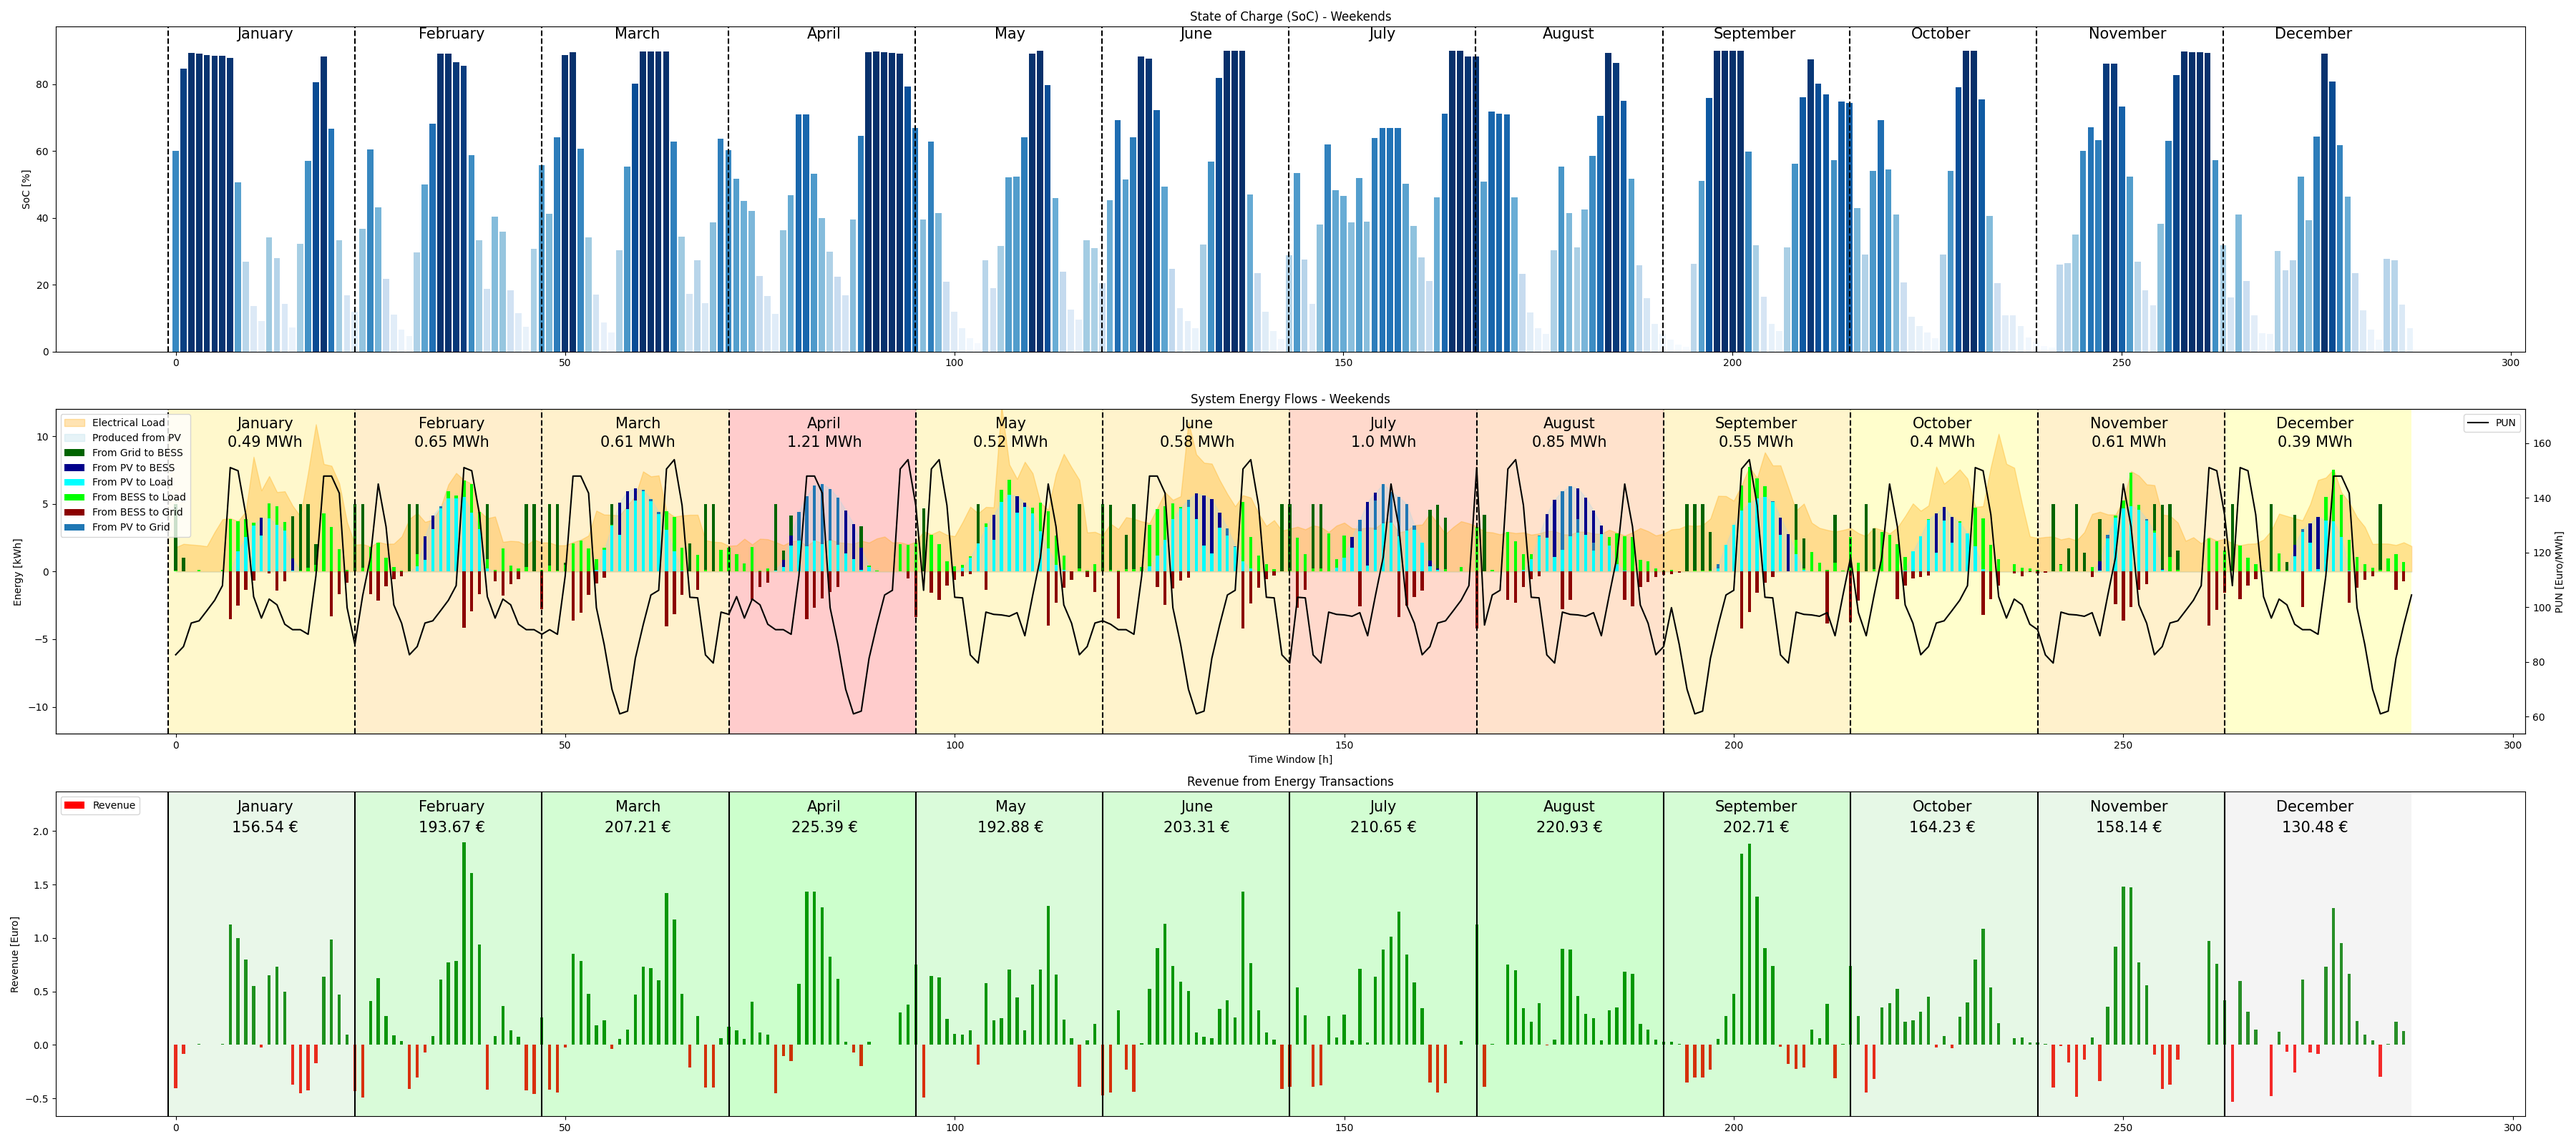
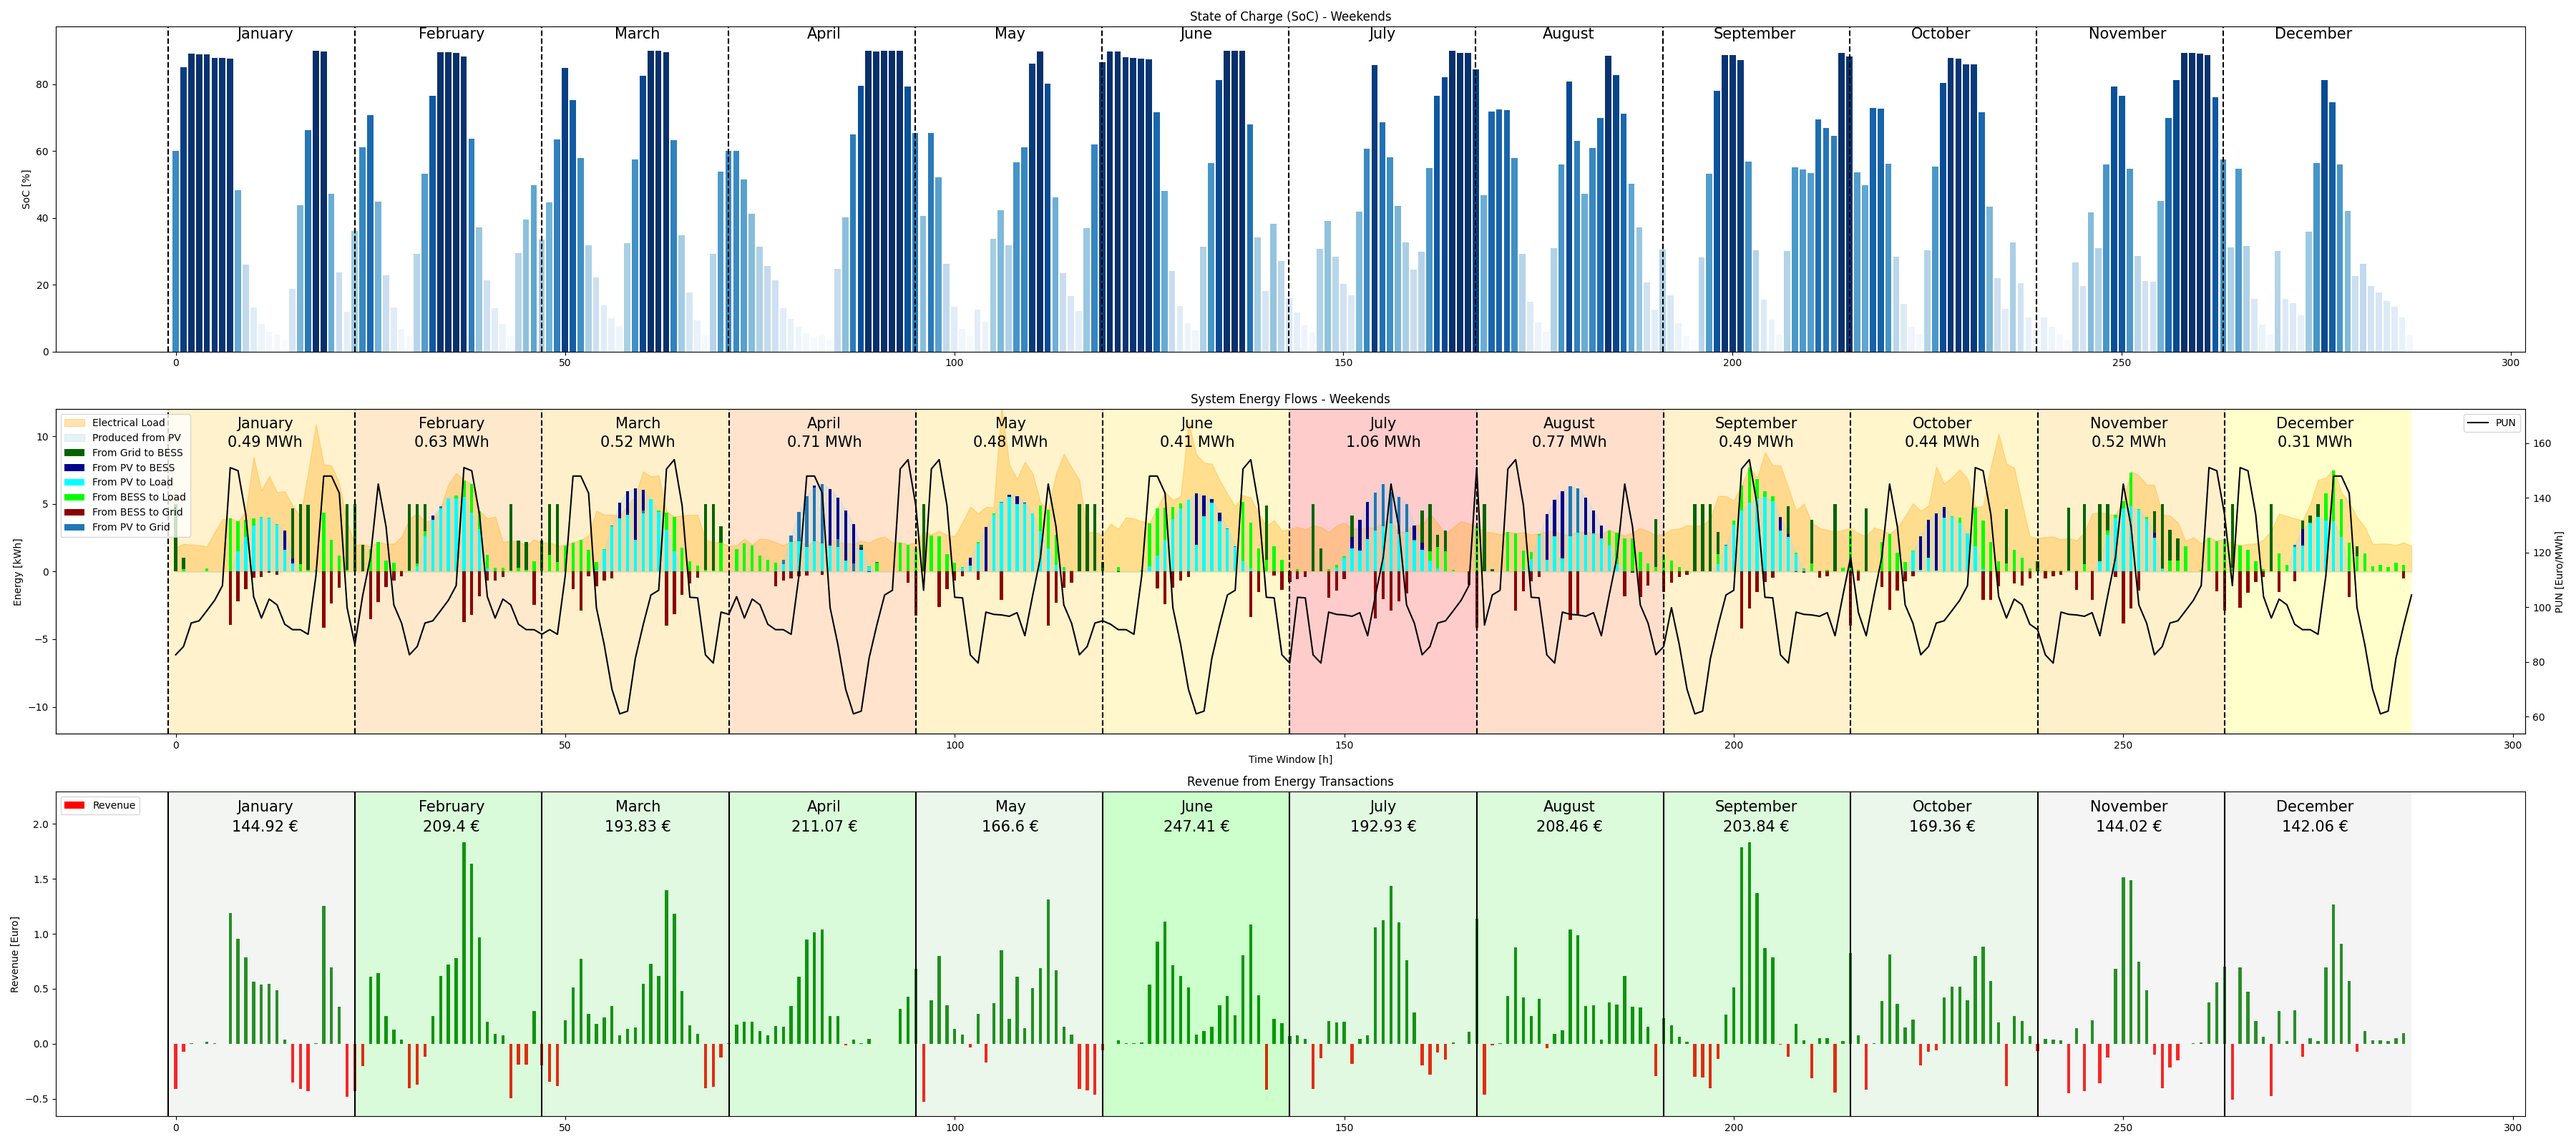
Fixing hyperparametes for short simulation on rec_simulation branch (?)

diff --git a/bess_optimization/short_simulation/configuration_s.py b/bess_optimization/short_simulation/configuration_s.py
@@ -152,7 +152,7 @@ algorithm = NSGA3(
     # The probability of crossover being applied. A probability of 1.0 means crossover is always
     # applied.
 
-    crossover=SBX(eta=1, prob=0.8),
+    crossover=SBX(eta=5, prob=0.8),
 
     # mutation: This parameter specifies the mutation operator used for generating variation in offspring.
     # PM: Polynomial Mutation (PM) is a common mutation method for real-valued variables.
